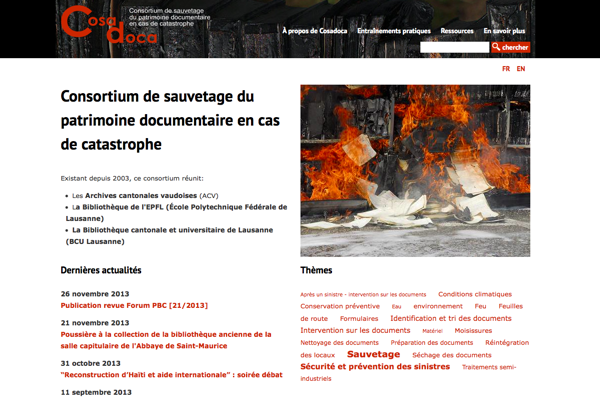
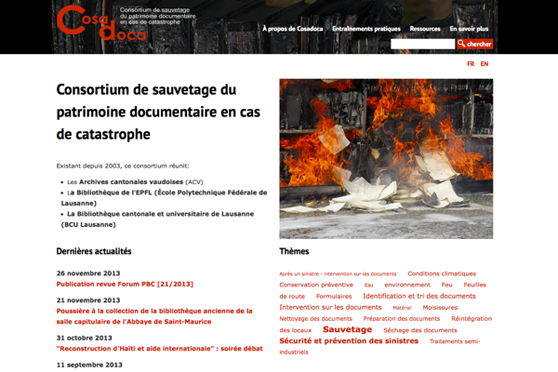
reduced image size, used jpg

diff --git a/beyondthewall/templates/projects.html b/beyondthewall/templates/projects.html
@@ -7,7 +7,7 @@
   <div class="col-md-6 ">
     <div class="grid mask">
       <figure>
-        <img class="img-responsive" src="{% static 'img/portfolio/kepchup.png' %}" alt="">
+        <img class="img-responsive" src="{% static 'img/portfolio/kepchup.jpg' %}" alt="">
         <figcaption>
           <h5>Kepchup</h5>
           <a data-toggle="modal" href="#modal-kepchup" class="btn btn-primary btn-lg">En savoir plus…</a>
@@ -25,7 +25,7 @@
           <h4 class="modal-title">Sport scolaire facultatif</h4>
         </div>
         <div class="modal-body">
-          <p><img class="img-responsive" src="{% static 'img/portfolio/kepchup.png' %}" alt="Capture du site kepchup.ch"></p>
+          <p><img class="img-responsive" src="{% static 'img/portfolio/kepchup.jpg' %}" alt="Capture du site kepchup.ch"></p>
           <p>Le groupement scolaire de Coppet avait besoin d'un moyen simple pour gérer les inscriptions au sport scolaire facultatif. Ce site a été utilisé par plus de 450 familles. <br />Technologies: Django, AngularJS, Bootstrap.</p>
           <p><b>Site: <a href="http://www.kepchup.ch">Sport scolaire facultatif du groupement scolaire de Coppet.</a></b></p>
         </div>
@@ -39,7 +39,7 @@
   <div class="col-md-6">
     <div class="grid mask">
       <figure>
-        <img class="img-responsive" src="{% static 'img/portfolio/vioget.png' %}" alt="" />
+        <img class="img-responsive" src="{% static 'img/portfolio/vioget.jpg' %}" alt="" />
         <figcaption>
           <h5>Vioget Pêche</h5>
           <a data-toggle="modal" href="#modal-vioget" class="btn btn-primary btn-lg">En savoir plus…</a>
@@ -57,7 +57,7 @@
           <h4 class="modal-title">Vioget Pêche</h4>
         </div>
         <div class="modal-body">
-          <p><img class="img-responsive" src="{% static 'img/portfolio/vioget.png' %}" alt="Capture du site vioget-peche.ch"></p>
+          <p><img class="img-responsive" src="{% static 'img/portfolio/vioget.jpg' %}" alt="Capture du site vioget-peche.ch"></p>
           <p>Eric Vioget possède une boutique d'articles de pêche. Il m'a contacté parce qu'il n'arrivait plus à utiliser sa boutique en ligne. J'ai récupéré sa base de plusieurs milliers d'articles et l'ai transférée vers un nouveau site, utilisant un outil plus moderne et pratique (de pgshop pro à prestashop, qui est un standard actuel du marché).<br />Technologies: Prestashop, MySQL et Selenium.</p>
           <p><b>Site: <a href="http://www.vioget-peche.ch">Vioget Pêche</a></b></p>
         </div>
@@ -74,7 +74,7 @@
   <div class="col-md-6">
     <div class="grid mask">
       <figure>
-        <img class="img-responsive" src="{% static 'img/portfolio/cosadoca.png' %}" alt="">
+        <img class="img-responsive" src="{% static 'img/portfolio/cosadoca.jpg' %}" alt="">
         <figcaption>
           <h5>Cosadoca</h5>
           <a data-toggle="modal" href="#modal-cosadoca" class="btn btn-primary btn-lg">En savoir plus…</a>
@@ -91,7 +91,7 @@
           <h4 class="modal-title">Cosadoca</h4>
         </div>
         <div class="modal-body">
-          <p><img class="img-responsive" src="{% static 'img/portfolio/cosadoca.png' %}" alt="Capture du site cosadoca.ch"></p>
+          <p><img class="img-responsive" src="{% static 'img/portfolio/cosadoca.jpg' %}" alt="Capture du site cosadoca.ch"></p>
           <p>Le <em>consortium pour le sauvetage documentaire en cas de catastrophe</em> devait refaire un site vieillissant qu'il était impossible de mettre à jour. Le nouveau site est relié aux systèmes d'informations de l'université de Lausanne et de l'EPFL et offre une édition simple, une gestion du fonds de photos et de ressources documentaires.<br />Technologies: Django-cms, haystack.</p>
           <p><b>Site: <a href="http://www.cosadoca.ch">Cosadoca</a></b></p>
         </div>
@@ -105,7 +105,7 @@
   <div class="col-md-6">
     <div class="grid mask">
       <figure>
-        <img class="img-responsive" src="{% static 'img/portfolio/sdis-gland.ch.png' %}" alt="">
+        <img class="img-responsive" src="{% static 'img/portfolio/sdis-gland.ch.jpg' %}" alt="">
         <figcaption>
           <h5>SDIS Gland région</h5>
           <a data-toggle="modal" href="#modal-sdis" class="btn btn-primary btn-lg">En savoir plus…</a>
@@ -123,7 +123,7 @@
           <h4 class="modal-title">SDIS Gland Région</h4>
         </div>
         <div class="modal-body">
-          <p><img class="img-responsive" src="{% static 'img/portfolio/sdis-gland.ch.png' %}" alt="Capture du site sdisglandregion.ch"></p>
+          <p><img class="img-responsive" src="{% static 'img/portfolio/sdis-gland.ch.jpg' %}" alt="Capture du site sdisglandregion.ch"></p>
           <p>Le Service de Défense Incendie et de Secours de Gland-région gère ses données d'interventions et d'effectifs via une application métier appelée ECADIS. Les pompiers souhaitaient que l'effectif, ainsi que les calendriers de chacun soient accessibles via le site web dans une zone protégée. J'ai créé une passerelle entre les deux logiciels, de sorte que le site soit toujours à jour.<br />Technologies: Joomla.</p>
           <p><b>Site: <a href="http://www.sdisglandregion.ch">SDIS Gland Région</a></b></p>
         </div>
